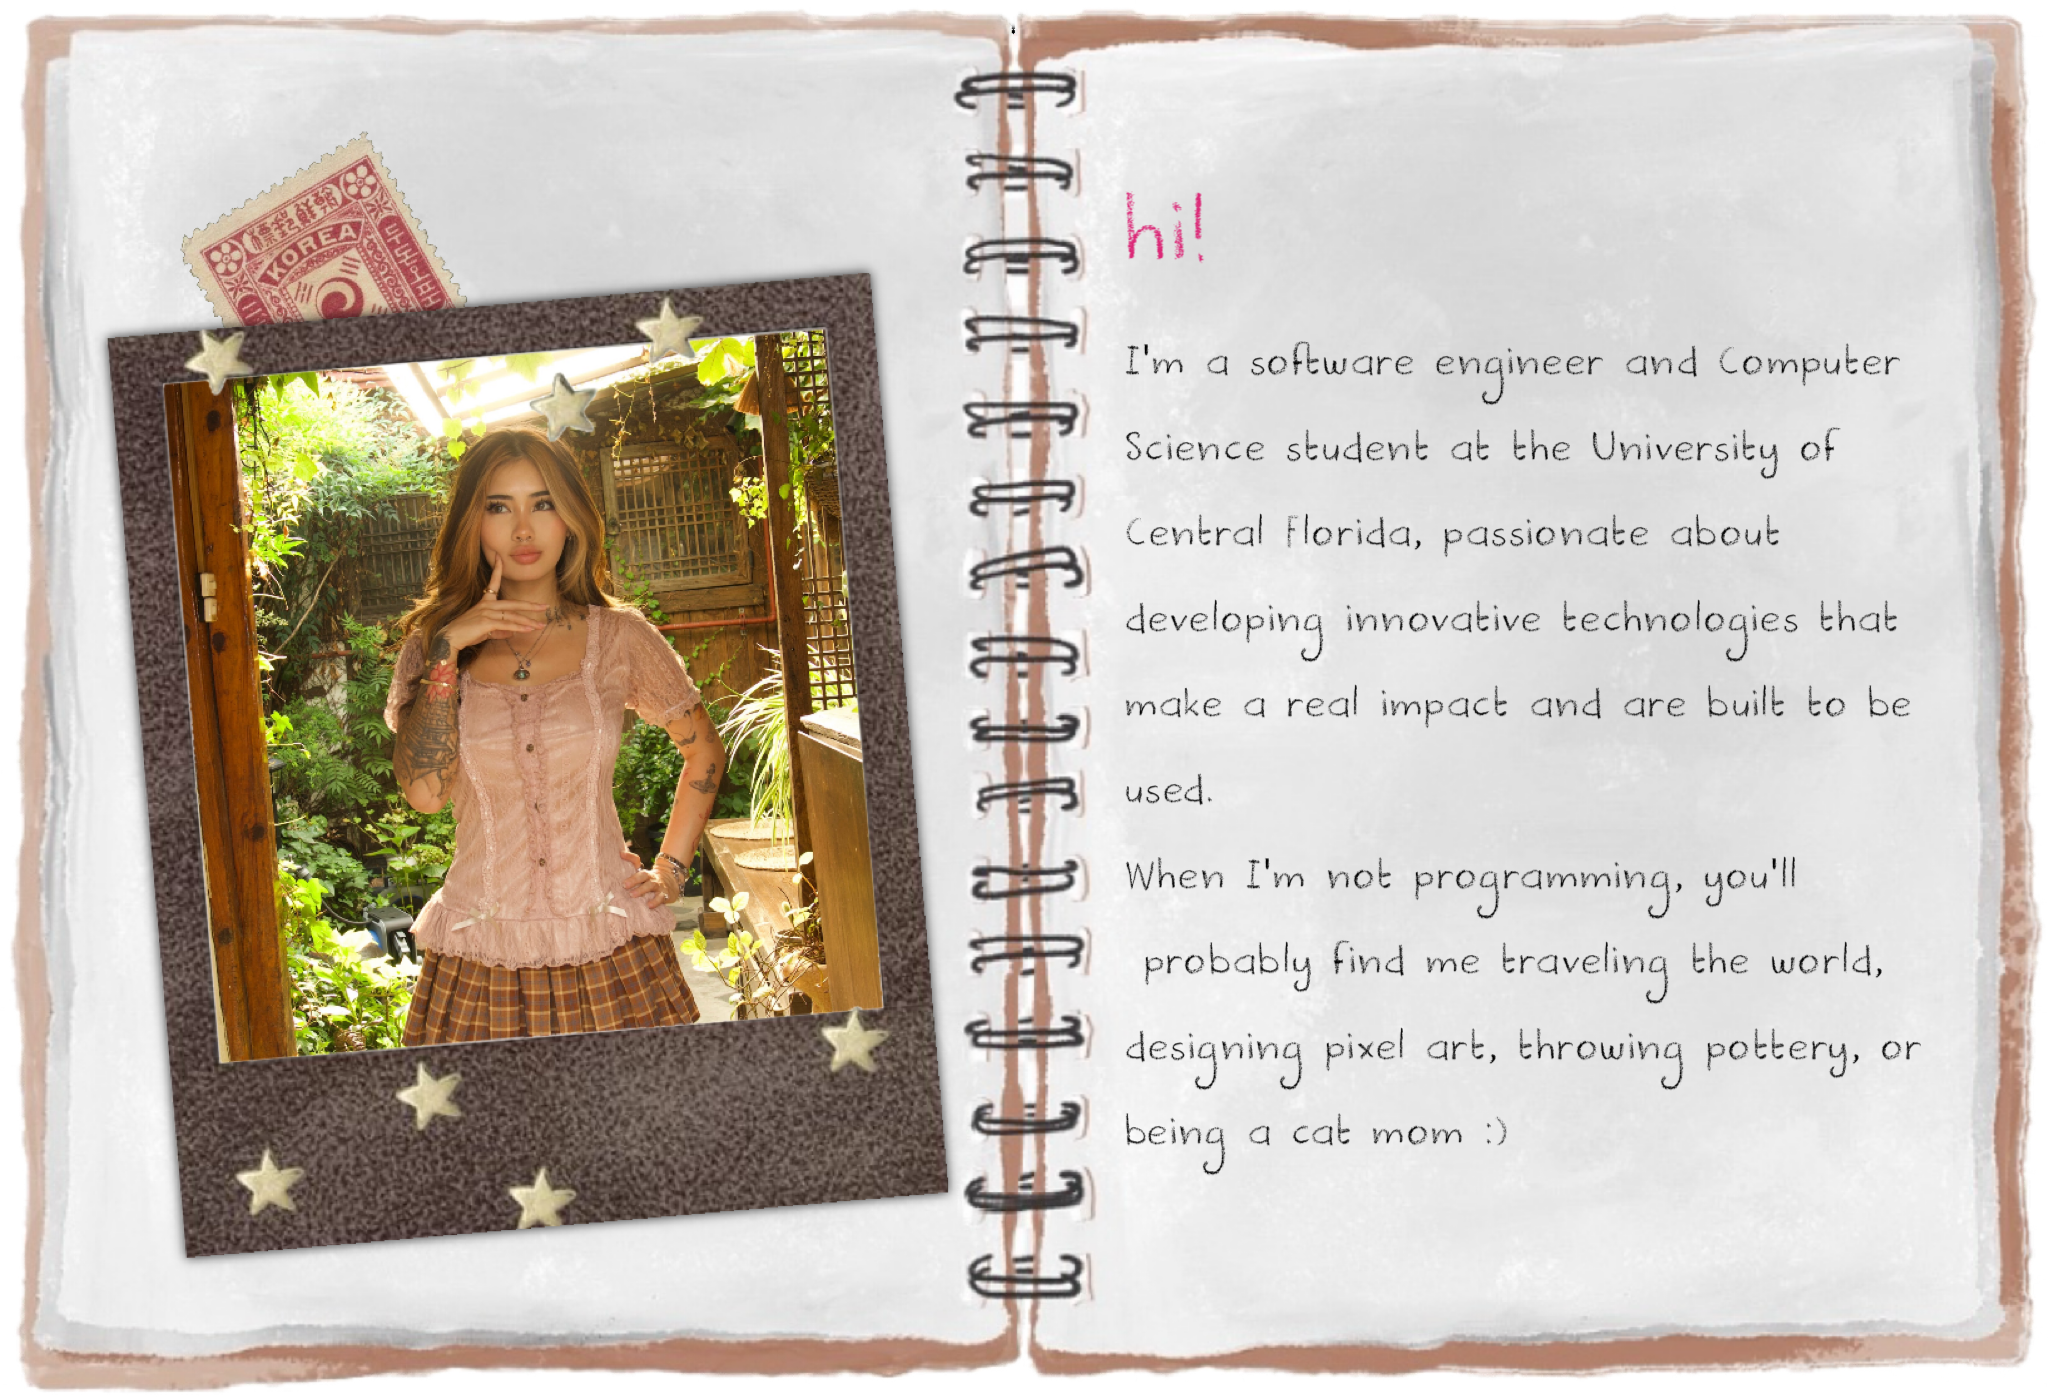
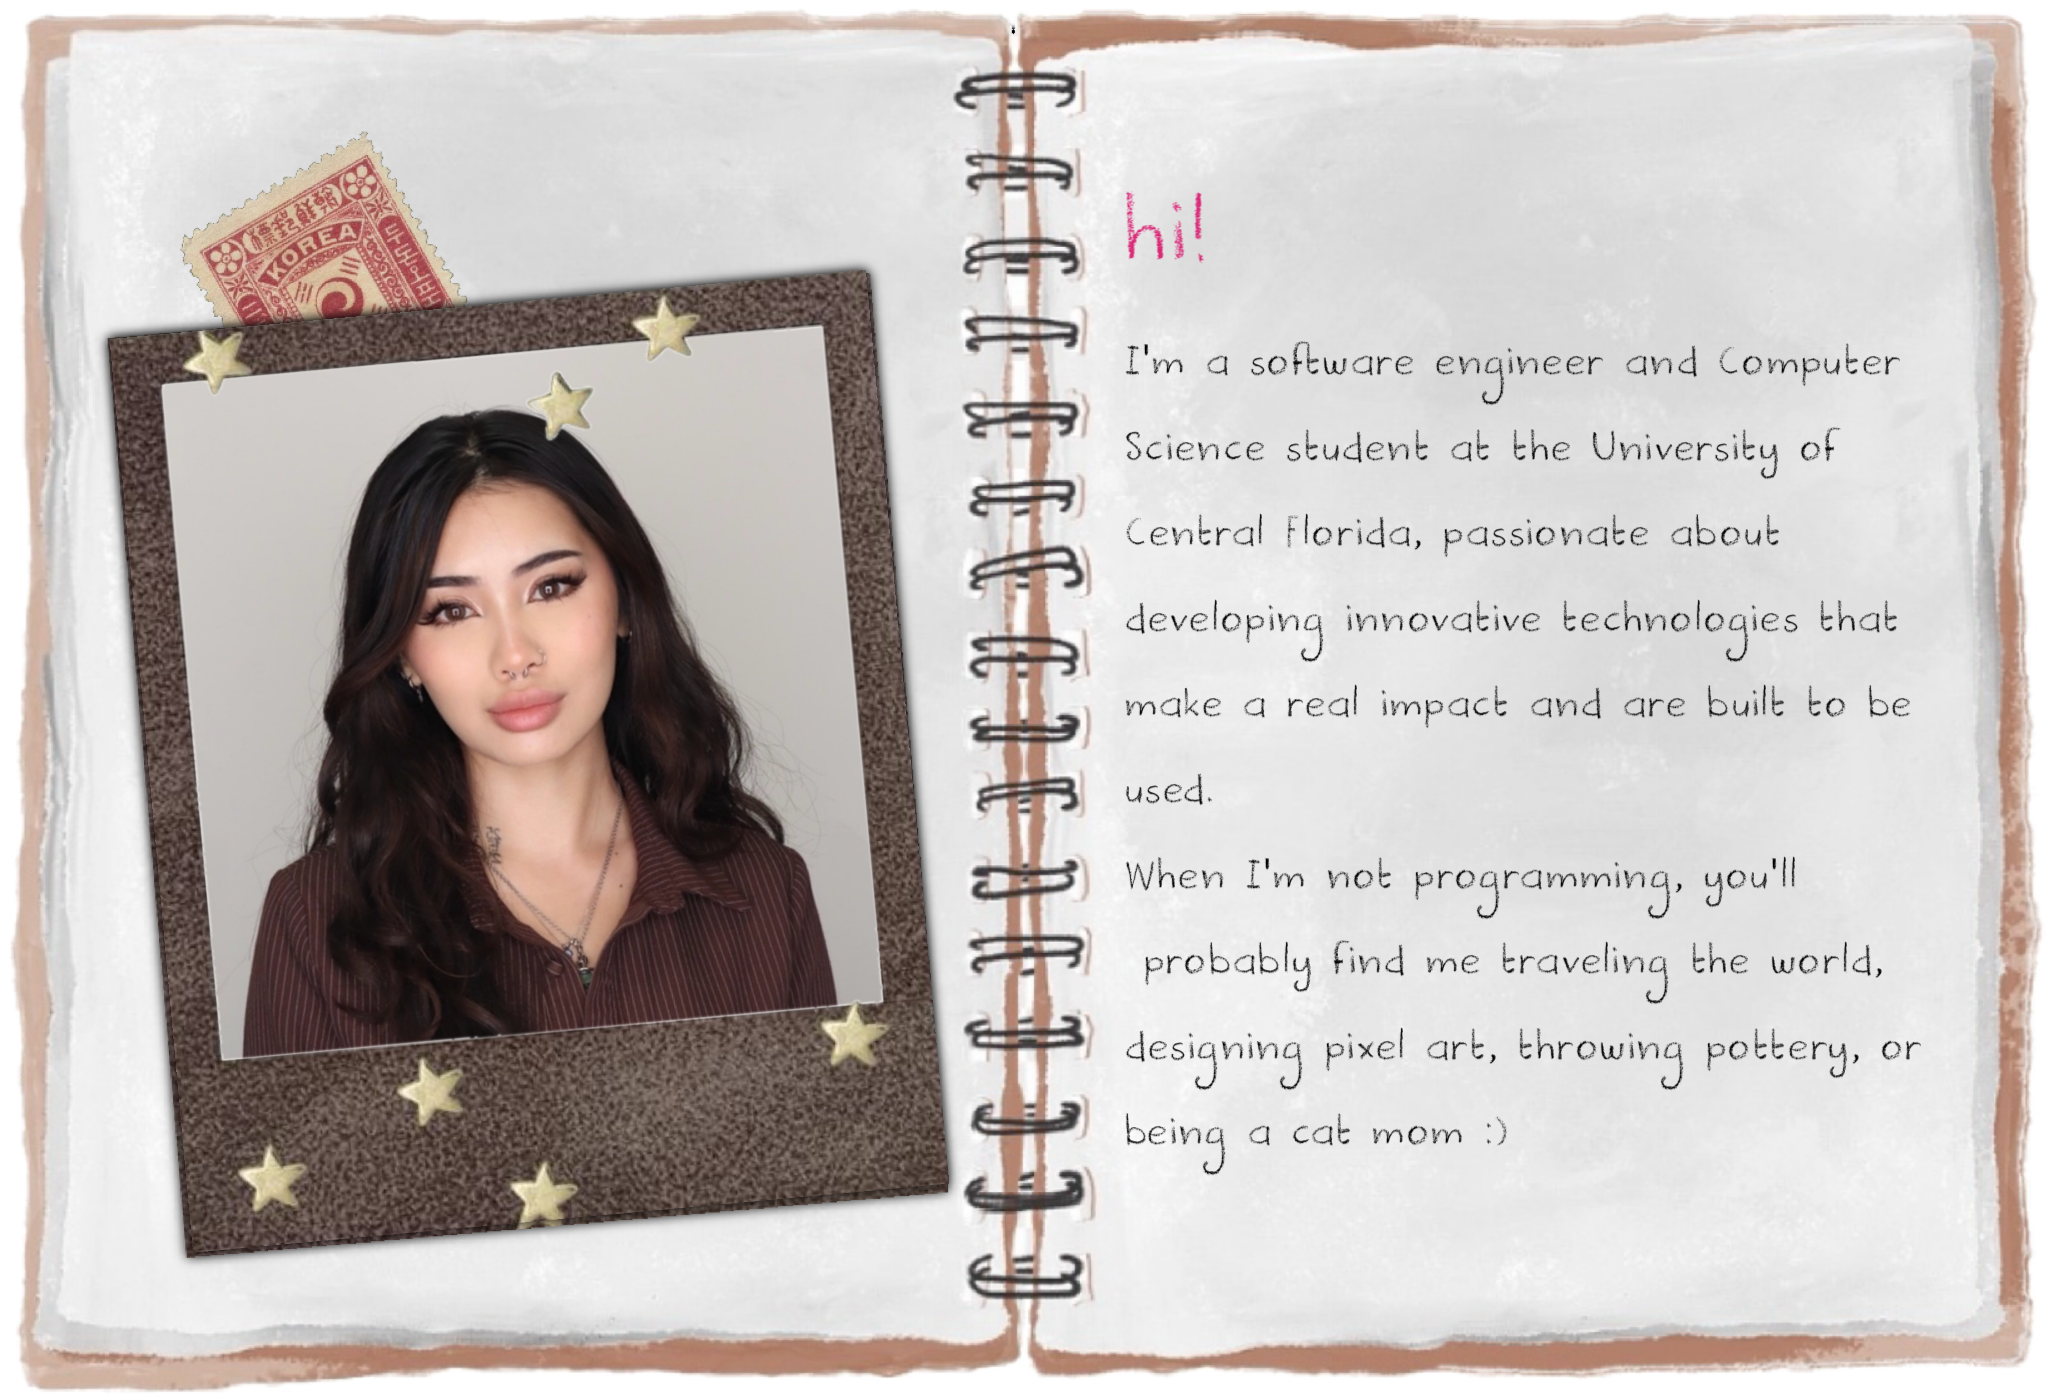
add profile image carosel

Changed region(s): [[0.0625, 0.1844, 0.4688, 0.8914]]

diff --git a/src/components/section/About.tsx b/src/components/section/About.tsx
@@ -1,15 +1,18 @@
 import { useEffect, useState, useRef } from 'react';
 import { Link } from 'react-router-dom';
+import { ChevronLeft, ChevronRight } from 'lucide-react';
 import AsciiMorphText from '../AsciiMorphText';
 import TypewriterCarousel from '../TypewriterCarousel';
 import { useDarkMode } from '../../contexts/DarkModeContext';
-import { aboutMeJournal, profileImage, stickers as stickerImages } from '../../assets';
+import { aboutMeJournal, profile1, profile2, profile3, stickers as stickerImages } from '../../assets';
+
 
 const About = () => {
   const [scrollProgress, setScrollProgress] = useState(0);
   const [asciiText, setAsciiText] = useState('');
   const [showProfileModal, setShowProfileModal] = useState(false);
   const [isClosing, setIsClosing] = useState(false);
+  const [currentImageIndex, setCurrentImageIndex] = useState(0);
   const sectionRef = useRef<HTMLDivElement>(null);
   const { isDarkMode } = useDarkMode();
 
@@ -18,6 +21,12 @@ const About = () => {
     'Full-Stack Developer',
     'Game Developer',
     'Frontend Developer',
+  ];
+
+  const profileImages = [
+    { src: profile1, caption: "me :)" },
+    { src: profile2, caption: "my cats onion and dishwater" },
+    { src: profile3, caption: "me in korea" }
   ];
 
   const fullAsciiArt = `              ⢀         
@@ -75,6 +84,52 @@ const About = () => {
 
     return () => window.removeEventListener('scroll', handleScroll);
   }, []);
+
+  // Focus management for modal
+  useEffect(() => {
+    if (showProfileModal) {
+      // Focus the modal when it opens
+      const timer = setTimeout(() => {
+        const modal = document.querySelector('[role="region"][aria-label="Profile photo carousel"]') as HTMLElement;
+        if (modal) {
+          modal.focus();
+        }
+      }, 100);
+      return () => clearTimeout(timer);
+    }
+  }, [showProfileModal]);
+
+  // Carousel navigation functions
+  const goToPrevious = () => {
+    setCurrentImageIndex((prevIndex) =>
+      prevIndex === 0 ? profileImages.length - 1 : prevIndex - 1
+    );
+  };
+
+  const goToNext = () => {
+    setCurrentImageIndex((prevIndex) =>
+      prevIndex === profileImages.length - 1 ? 0 : prevIndex + 1
+    );
+  };
+
+  const goToSlide = (index: number) => {
+    setCurrentImageIndex(index);
+  };
+
+  // Keyboard navigation
+  const handleKeyDown = (e: React.KeyboardEvent) => {
+    if (e.key === 'ArrowLeft') {
+      goToPrevious();
+    } else if (e.key === 'ArrowRight') {
+      goToNext();
+    } else if (e.key === 'Escape') {
+      setIsClosing(true);
+      setTimeout(() => {
+        setShowProfileModal(false);
+        setIsClosing(false);
+      }, 300);
+    }
+  };
 
   const stickers = [
     { id: 1, image: stickerImages[0], initialX: -180, initialY: -80, finalX: -550, finalY: -100 },
@@ -197,7 +252,8 @@ const About = () => {
       {/* Profile Modal */}
       {showProfileModal && (
         <div
-          className={`fixed inset-0 z-50 flex items-center justify-center bg-white bg-opacity-50 p-4 ${isClosing ? 'animate-fadeOut' : 'animate-fadeIn'}`}
+          className={`fixed inset-0 z-50 flex items-center justify-center p-4 ${isClosing ? 'animate-fadeOut' : 'animate-fadeIn'}`}
+          style={{ backgroundColor: isDarkMode ? 'rgba(0, 0, 0, 0.7)' : 'rgba(255, 255, 255, 0.5)' }}
           onClick={() => {
             setIsClosing(true);
             setTimeout(() => {
@@ -205,18 +261,107 @@ const About = () => {
               setIsClosing(false);
             }, 300);
           }}
+          onKeyDown={handleKeyDown}
+          tabIndex={-1}
         >
-          <div className={`relative max-w-lg ${isClosing ? 'animate-scaleOut' : 'animate-scaleIn'}`}>
-            <img
-              src={profileImage}
-              alt="Profile photo of Layla Le in Korea"
-              className="w-full h-full object-contain rounded-lg shadow-2xl"
-              onClick={(e) => e.stopPropagation()}
-              loading="lazy"
-              width="512"
-              height="768"
-            />
-           
+          <div className={`relative max-w-md ${isClosing ? 'animate-scaleOut' : 'animate-scaleIn'}`} onClick={(e) => e.stopPropagation()}>
+            {/* Carousel Container */}
+            <div
+              className="relative w-full bg-black rounded-lg shadow-2xl overflow-hidden focus:outline-none"
+              style={{ aspectRatio: '4/5' }}
+              role="region"
+              aria-label="Profile photo carousel"
+              aria-live="polite"
+              tabIndex={0}
+              onKeyDown={handleKeyDown}
+            >
+              {/* Image Display */}
+              <div
+                className="flex transition-transform duration-500 ease-in-out h-full"
+                style={{ transform: `translateX(-${currentImageIndex * 100}%)` }}
+                role="group"
+                aria-label={`Image ${currentImageIndex + 1} of ${profileImages.length}`}
+              >
+                {profileImages.map((image, index) => (
+                  <img
+                    key={index}
+                    src={image.src}
+                    alt={`Profile photo ${index + 1} of Layla Le`}
+                    className="w-full h-full object-cover flex-shrink-0"
+                    loading="lazy"
+                    width="400"
+                    height="500"
+                  />
+                ))}
+              </div>
+
+              {/* Navigation Arrows */}
+              <button
+                onClick={goToPrevious}
+                className="absolute left-4 top-1/2 -translate-y-1/2 p-3 rounded-full shadow-lg transition-all hover:scale-110 focus:outline-none focus:ring-2 focus:ring-pink-300"
+                style={{
+                  backgroundColor: isDarkMode ? 'rgba(234, 190, 195, 0.2)' : 'rgba(255, 255, 255, 0.8)',
+                  color: isDarkMode ? '#EABEC3' : 'rgb(31, 41, 55)'
+                } as React.CSSProperties}
+                aria-label="Previous image"
+              >
+                <ChevronLeft className="h-6 w-6" />
+              </button>
+
+              <button
+                onClick={goToNext}
+                className="absolute right-4 top-1/2 -translate-y-1/2 p-3 rounded-full shadow-lg transition-all hover:scale-110 focus:outline-none focus:ring-2 focus:ring-pink-300"
+                style={{
+                  backgroundColor: isDarkMode ? 'rgba(234, 190, 195, 0.2)' : 'rgba(255, 255, 255, 0.8)',
+                  color: isDarkMode ? '#EABEC3' : 'rgb(31, 41, 55)'
+                } as React.CSSProperties}
+                aria-label="Next image"
+              >
+                <ChevronRight className="h-6 w-6" />
+              </button>
+
+              {/* Image Counter */}
+              <div className="absolute bottom-4 left-4 bg-black/50 text-white px-3 py-1 rounded-full text-sm">
+                {currentImageIndex + 1} / {profileImages.length}
+              </div>
+
+              {/* Caption */}
+              <div className="absolute bottom-4 right-4 bg-black/70 text-white px-4 py-2 rounded-lg text-base font-medium max-w-[220px] text-center">
+                {profileImages[currentImageIndex].caption}
+              </div>
+            </div>
+
+            {/* Dots Indicator */}
+            <div className="flex justify-center gap-0 mt-4">
+              {profileImages.map((_, index) => (
+                <button
+                  key={index}
+                  onClick={() => goToSlide(index)}
+                  className="transition-all focus:outline-none focus:ring-2 focus:ring-pink-300 focus:ring-offset-2 flex items-center justify-center"
+                  style={{
+                    minWidth: '44px',
+                    minHeight: '44px',
+                    padding: '0',
+                    backgroundColor: 'transparent',
+                    display: 'flex',
+                    alignItems: 'center',
+                    justifyContent: 'center'
+                  } as React.CSSProperties}
+                  aria-label={`Go to image ${index + 1}`}
+                >
+                  <span
+                    className="rounded-full transition-all"
+                    style={{
+                      width: index === currentImageIndex ? '32px' : '12px',
+                      height: '12px',
+                      backgroundColor: index === currentImageIndex ? '#EABEC3' : (isDarkMode ? 'rgba(234, 190, 195, 0.3)' : 'rgb(209, 213, 219)')
+                    }}
+                  />
+                </button>
+              ))}
+            </div>
+
+            {/* Close Button */}
             <button
               className="absolute top-4 right-4 text-white bg-pink-500 hover:bg-pink-600 rounded-full w-11 h-11 flex items-center justify-center transition-all duration-300 hover:scale-110 hover:rotate-90"
               aria-label="Close modal"

diff --git a/src/components/section/Navigation.tsx b/src/components/section/Navigation.tsx
@@ -50,7 +50,13 @@ const Navigation = () => {
     <nav className={`navigation ${isScrolled ? 'scrolled' : ''}`} aria-label="Main navigation">
       <div className="nav-container">
         <button className="signature-name"
-          style={{ cursor: 'pointer', color: isDarkMode ? '#EABEC3' : undefined, background: 'none', border: 'none' }}
+          style={{ 
+            cursor: 'pointer', 
+            color: isDarkMode ? '#EABEC3' : '#A6707B', 
+            background: 'none', 
+            border: 'none',
+            WebkitTextFillColor: isDarkMode ? '#EABEC3' : '#A6707B'
+          }}
           onClick={() => window.location.href = '/'}
           aria-label="Layla Le - Go to homepage">
           Layla Le

diff --git a/src/assets/index.ts b/src/assets/index.ts
@@ -1,6 +1,8 @@
 // Main assets module - consolidates common assets
 import aboutMeJournal from './aboutme_journal.PNG';
-import profileImage from './profile.PNG';
+import profile1 from './profile1.jpg';
+import profile2 from './profile2.jpg';
+import profile3 from './profile3.jpg';
 import comingSoon from './coming_soon.png';
 import divider from './divider.PNG';
 
@@ -13,14 +15,18 @@ export * from './techstack';
 // Export main assets
 export const mainAssets = {
   aboutMeJournal,
-  profileImage,
+  profile1,
+  profile2,
+  profile3,
   comingSoon,
   divider,
 };
 
 export {
   aboutMeJournal,
-  profileImage,
+  profile1,
+  profile2,
+  profile3,
   comingSoon,
   divider,
 };

diff --git a/src/components/ui/domegallery.tsx b/src/components/ui/domegallery.tsx
@@ -886,8 +886,8 @@ export default function DomeGallery({
                     style={{
                         touchAction: "none",
                         WebkitUserSelect: "none",
-                        maskImage: "radial-gradient(ellipse at center, black 40%, transparent 75%)",
-                        WebkitMaskImage: "radial-gradient(ellipse at center, black 40%, transparent 75%)",
+                        maskImage: "radial-gradient(ellipse at center, black 30%, transparent 65%)",
+                        WebkitMaskImage: "radial-gradient(ellipse at center, black 30%, transparent 65%)",
                     }}
                 >
                     <div className="stage">

diff --git a/src/App.css b/src/App.css
@@ -147,8 +147,8 @@ body {
   font-size: 2.5rem;
   background: linear-gradient(135deg, var(--dusty-pink) 0%, var(--dusty-pink-darker) 100%);
   -webkit-background-clip: text;
-  -webkit-text-fill-color: transparent;
   background-clip: text;
+  color: var(--text-pink);
   margin: 0;
   font-weight: normal;
   letter-spacing: 2px;
@@ -159,6 +159,14 @@ body {
   /* Button reset styles for accessibility */
   padding: 0.2rem 0 0 0;
   text-align: left;
+}
+
+/* Apply gradient text effect only when supported */
+@supports (-webkit-background-clip: text) {
+  .signature-name {
+    -webkit-text-fill-color: transparent;
+    color: transparent;
+  }
 }
 
 .nav-tabs {

diff --git a/src/components/section/Projects.tsx b/src/components/section/Projects.tsx
@@ -247,7 +247,7 @@ const Projects = () => {
         <span
           style={{
             fontFamily: "'DK Crayonista', cursive",
-            fontSize: '26px',
+            fontSize: '35px',
             color: isDarkMode ? '#FDD5DF' : '#ec4899',
             fontWeight: 'bold',
             userSelect: 'none',
